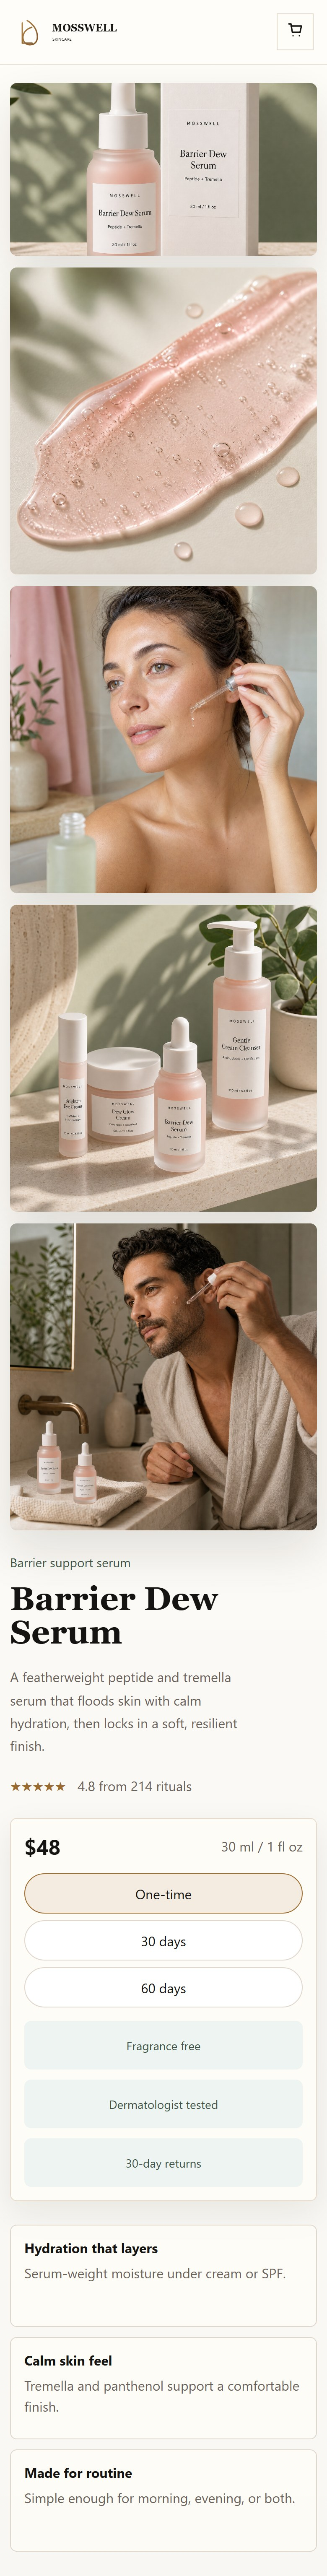
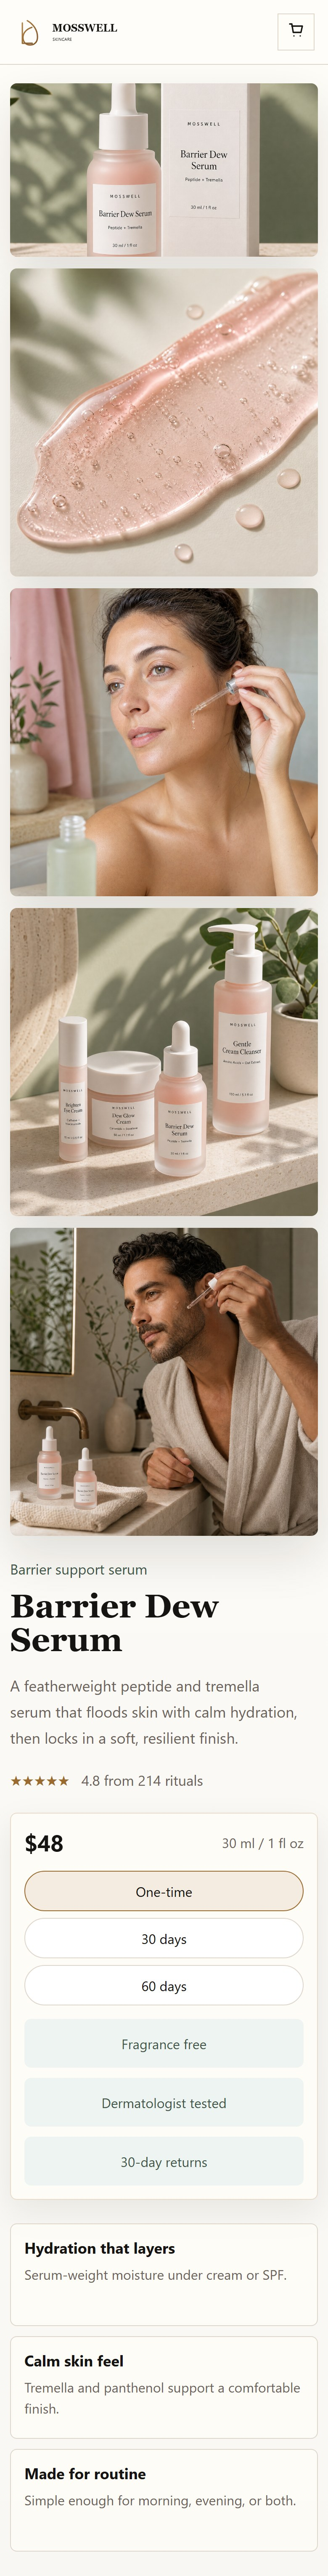
After view: enlarge body text for readability (esp. mobile)
Bump subtitle, kicker, rating, price, option pills, trust badges and
benefit text below the title; title left unchanged. Re-captured the
after screenshots and rebuilt the handoff.

diff --git a/assets/styles.css b/assets/styles.css
@@ -381,7 +381,7 @@ a {
 .premium-kicker {
   margin: 0 0 14px;
   color: var(--sage-ink);
-  font-size: 15px;
+  font-size: 16px;
 }
 
 .premium-title {
@@ -400,7 +400,7 @@ a {
   margin: 20px 0 0;
   max-width: 58ch;
   color: var(--muted);
-  font-size: 18px;
+  font-size: 20px;
   line-height: 1.7;
 }
 
@@ -411,6 +411,7 @@ a {
   align-items: center;
   margin: 24px 0;
   color: var(--muted);
+  font-size: 16px;
 }
 
 .stars {
@@ -480,7 +481,7 @@ a {
   grid-template-columns: repeat(3, 1fr);
   gap: 12px;
   color: var(--sage-ink);
-  font-size: 14px;
+  font-size: 15px;
 }
 
 .premium-trust span {
@@ -512,12 +513,14 @@ a {
 .premium-benefit strong {
   display: block;
   margin-bottom: 8px;
+  font-size: 17px;
 }
 
 .premium-benefit p {
   margin: 0;
   color: var(--muted);
   line-height: 1.55;
+  font-size: 15.5px;
 }
 
 .story-band {
@@ -1003,10 +1006,43 @@ a {
   }
 
   .premium-subtitle {
-    max-width: 32ch;
+    max-width: 36ch;
   }
 
+  /* Body text under the big title was too small to read on phones. */
   .premium-subtitle {
+    font-size: 18px;
+  }
+
+  .premium-kicker {
+    font-size: 17px;
+  }
+
+  .premium-rating {
+    font-size: 17px;
+  }
+
+  .premium-price {
+    font-size: 27px;
+  }
+
+  .premium-size {
+    font-size: 16px;
+  }
+
+  .premium-selector button {
+    font-size: 16px;
+  }
+
+  .premium-trust {
+    font-size: 16px;
+  }
+
+  .premium-benefit strong {
+    font-size: 18px;
+  }
+
+  .premium-benefit p {
     font-size: 16px;
   }
 